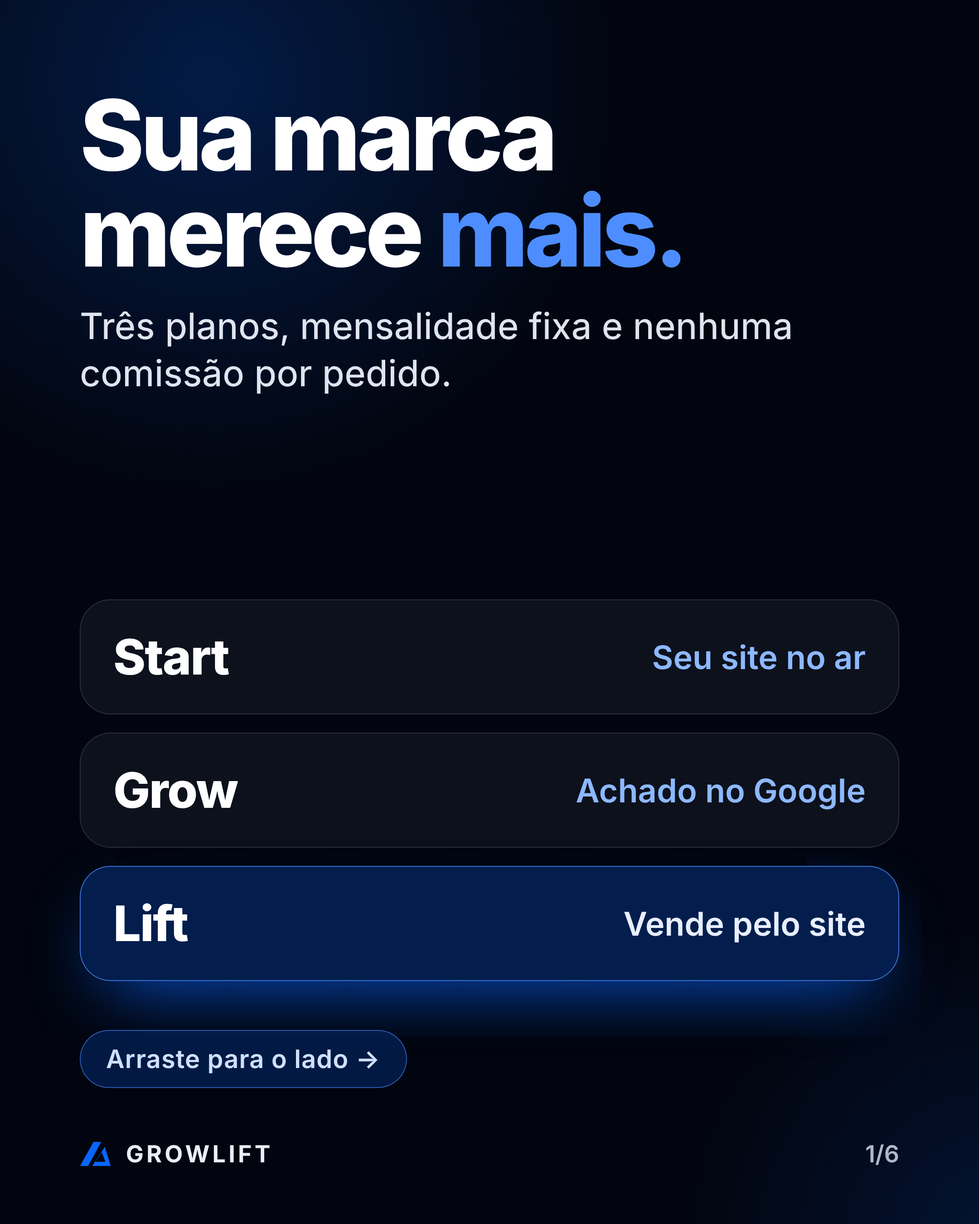
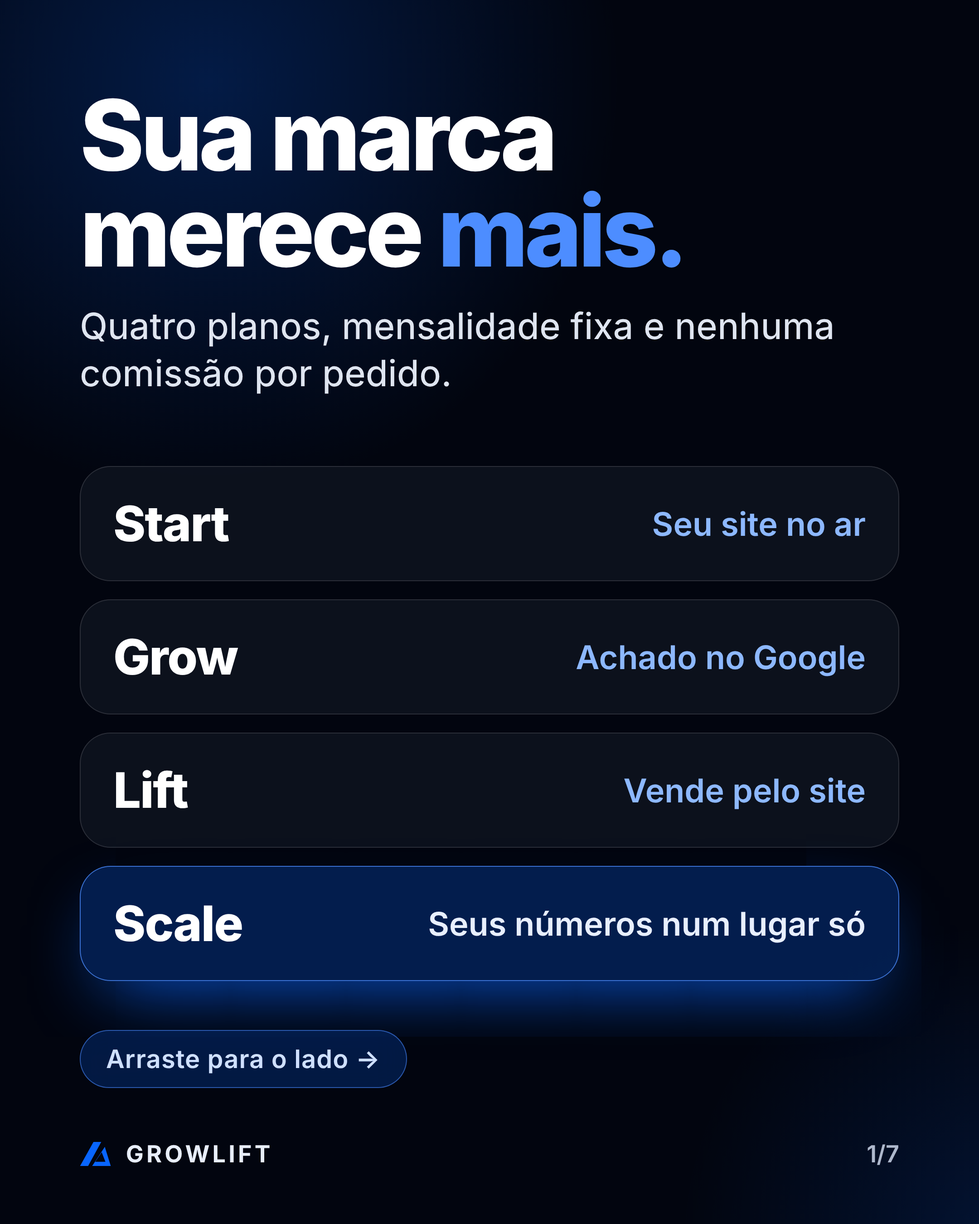
Instagram: Serviços com o plano Scale (7 imagens), guardado até o Scale estar pronto
Revisão legal: só postar com o Scale funcionando, no site, no contrato e na
política de privacidade. Textos do Scale já no formato aprovado.

Claude-Session: https://claude.ai/code/session_0144E8K5YaHTVDtLe8swm1ug

diff --git a/growlift-social/_fonte/html/04-posts-fixados/3-servicos/05.html b/growlift-social/_fonte/html/04-posts-fixados/3-servicos/05.html
@@ -42,22 +42,22 @@ body{background:#02050f}
     <div class="glow" style="width:1300px;height:1300px;left:-420px;top:-560px;opacity:.55"></div><div class="glow" style="width:1000px;height:1000px;right:-520px;bottom:-520px;opacity:.35"></div>
     <div style="position:absolute;inset:0;background:transparent"></div>
     <div style="position:absolute;left:88px;right:88px;top:96px;bottom:150px">
-    <span class="pill">Em todos os planos</span>
-    <h2 class="t-title" style="font-size:96px;margin-top:30px">Sem letra <span class="blue">miúda.</span></h2>
+    <span class="pill blue">Plano Scale</span>
+    <h2 class="t-title" style="font-size:96px;margin-top:30px">Veja os números da <span class="blue">sua loja.</span></h2>
     
     <ol style="position:absolute;left:0;right:0;bottom:0;list-style:none;display:grid;gap:20px">
       <li style="display:flex;gap:30px;align-items:center;padding:26px 30px;border-radius:34px;background:rgba(15,21,32,.8);border:1.5px solid rgba(255,255,255,.12)">
         <span style="flex:none;width:108px;height:108px;border-radius:30px;display:grid;place-items:center;background:rgba(8,101,254,.18);border:1.5px solid rgba(77,141,255,.45)"><svg width="58" height="58" viewBox="0 0 24 24" fill="none" stroke="#8db8ff" stroke-width="1.7" stroke-linecap="round" stroke-linejoin="round" aria-hidden="true"><path d="m5 12.5 4.5 4.5L19 7.5"/></svg></span>
-        <span><span style="display:block;font-size:44px;font-weight:800;color:#fff;letter-spacing:-.02em;line-height:1.1">Contrato claro</span><span style="display:block;font-size:33px;color:#c6cede;margin-top:8px;line-height:1.25">Fidelidade informada antes de assinar</span></span>
+        <span><span style="display:block;font-size:44px;font-weight:800;color:#fff;letter-spacing:-.02em;line-height:1.1">Tudo do Lift</span><span style="display:block;font-size:33px;color:#c6cede;margin-top:8px;line-height:1.25">Pedido e Pix no site</span></span>
       </li><li style="display:flex;gap:30px;align-items:center;padding:26px 30px;border-radius:34px;background:rgba(15,21,32,.8);border:1.5px solid rgba(255,255,255,.12)">
-        <span style="flex:none;width:108px;height:108px;border-radius:30px;display:grid;place-items:center;background:rgba(8,101,254,.18);border:1.5px solid rgba(77,141,255,.45)"><svg width="58" height="58" viewBox="0 0 24 24" fill="none" stroke="#8db8ff" stroke-width="1.7" stroke-linecap="round" stroke-linejoin="round" aria-hidden="true"><path d="m5 12.5 4.5 4.5L19 7.5"/></svg></span>
-        <span><span style="display:block;font-size:44px;font-weight:800;color:#fff;letter-spacing:-.02em;line-height:1.1">Domínio no seu nome</span><span style="display:block;font-size:33px;color:#c6cede;margin-top:8px;line-height:1.25">O endereço é do seu negócio</span></span>
+        <span style="flex:none;width:108px;height:108px;border-radius:30px;display:grid;place-items:center;background:rgba(8,101,254,.18);border:1.5px solid rgba(77,141,255,.45)"><svg width="58" height="58" viewBox="0 0 24 24" fill="none" stroke="#8db8ff" stroke-width="1.7" stroke-linecap="round" stroke-linejoin="round" aria-hidden="true"><path d="M3 20.5h18"/><path d="M6 16.5v-4M10.5 16.5v-8M15 16.5v-6M19.5 16.5V4.5"/></svg></span>
+        <span><span style="display:block;font-size:44px;font-weight:800;color:#fff;letter-spacing:-.02em;line-height:1.1">Fechamento do dia</span><span style="display:block;font-size:33px;color:#c6cede;margin-top:8px;line-height:1.25">Balcão, delivery e telefone, com os relatórios que você envia</span></span>
       </li><li style="display:flex;gap:30px;align-items:center;padding:26px 30px;border-radius:34px;background:rgba(15,21,32,.8);border:1.5px solid rgba(255,255,255,.12)">
-        <span style="flex:none;width:108px;height:108px;border-radius:30px;display:grid;place-items:center;background:rgba(8,101,254,.18);border:1.5px solid rgba(77,141,255,.45)"><svg width="58" height="58" viewBox="0 0 24 24" fill="none" stroke="#8db8ff" stroke-width="1.7" stroke-linecap="round" stroke-linejoin="round" aria-hidden="true"><path d="m5 12.5 4.5 4.5L19 7.5"/></svg></span>
-        <span><span style="display:block;font-size:44px;font-weight:800;color:#fff;letter-spacing:-.02em;line-height:1.1">7 dias para desistir</span><span style="display:block;font-size:33px;color:#c6cede;margin-top:8px;line-height:1.25">Sem multa</span></span>
+        <span style="flex:none;width:108px;height:108px;border-radius:30px;display:grid;place-items:center;background:rgba(8,101,254,.18);border:1.5px solid rgba(77,141,255,.45)"><svg width="58" height="58" viewBox="0 0 24 24" fill="none" stroke="#8db8ff" stroke-width="1.7" stroke-linecap="round" stroke-linejoin="round" aria-hidden="true"><path d="M20.5 11.5a8.5 8.5 0 0 1-12.6 7.4L3 20.5l1.5-4.7A8.5 8.5 0 1 1 20.5 11.5z"/><path d="M8.5 11.5h.01M12 11.5h.01M15.5 11.5h.01" stroke-width="2.6"/></svg></span>
+        <span><span style="display:block;font-size:44px;font-weight:800;color:#fff;letter-spacing:-.02em;line-height:1.1">Pergunte ao painel</span><span style="display:block;font-size:33px;color:#c6cede;margin-top:8px;line-height:1.25">Respostas por IA com os números da sua loja</span></span>
       </li><li style="display:flex;gap:30px;align-items:center;padding:26px 30px;border-radius:34px;background:rgba(15,21,32,.8);border:1.5px solid rgba(255,255,255,.12)">
-        <span style="flex:none;width:108px;height:108px;border-radius:30px;display:grid;place-items:center;background:rgba(8,101,254,.18);border:1.5px solid rgba(77,141,255,.45)"><svg width="58" height="58" viewBox="0 0 24 24" fill="none" stroke="#8db8ff" stroke-width="1.7" stroke-linecap="round" stroke-linejoin="round" aria-hidden="true"><path d="m5 12.5 4.5 4.5L19 7.5"/></svg></span>
-        <span><span style="display:block;font-size:44px;font-weight:800;color:#fff;letter-spacing:-.02em;line-height:1.1">Sem comissão</span><span style="display:block;font-size:33px;color:#c6cede;margin-top:8px;line-height:1.25">Nada sobre os seus pedidos</span></span>
+        <span style="flex:none;width:108px;height:108px;border-radius:30px;display:grid;place-items:center;background:rgba(8,101,254,.18);border:1.5px solid rgba(77,141,255,.45)"><svg width="58" height="58" viewBox="0 0 24 24" fill="none" stroke="#8db8ff" stroke-width="1.7" stroke-linecap="round" stroke-linejoin="round" aria-hidden="true"><rect x="3" y="5" width="18" height="16" rx="2"/><path d="M8 3v4M16 3v4M3 10h18"/><path d="m9 15 2 2 4-4"/></svg></span>
+        <span><span style="display:block;font-size:44px;font-weight:800;color:#fff;letter-spacing:-.02em;line-height:1.1">Revisão mensal</span><span style="display:block;font-size:33px;color:#c6cede;margin-top:8px;line-height:1.25">Uma conversa por mês com a gente</span></span>
       </li>
     </ol></div>
-    <div style="position:absolute;left:88px;right:88px;bottom:62px;display:flex;justify-content:space-between;align-items:center;font-size:26px;color:#aeb8cc"><div class="brand" style="font-size:26px;color:#e8eefa"><svg viewBox="50 40 530 415" xmlns="http://www.w3.org/2000/svg"><path fill="#0865FE" d="M280 48H410L190 450H55Z"/><path fill="#0865FE" fill-rule="evenodd" d="M470 130L570 450H258Z M418 220L480 380H309Z"/></svg>GROWLIFT</div><span style="font-weight:600">5/6</span></div></body></html>
+    <div style="position:absolute;left:88px;right:88px;bottom:62px;display:flex;justify-content:space-between;align-items:center;font-size:26px;color:#aeb8cc"><div class="brand" style="font-size:26px;color:#e8eefa"><svg viewBox="50 40 530 415" xmlns="http://www.w3.org/2000/svg"><path fill="#0865FE" d="M280 48H410L190 450H55Z"/><path fill="#0865FE" fill-rule="evenodd" d="M470 130L570 450H258Z M418 220L480 380H309Z"/></svg>GROWLIFT</div><span style="font-weight:600">5/7</span></div></body></html>

diff --git a/growlift-social/_fonte/html/04-posts-fixados/3-servicos/07.html b/growlift-social/_fonte/html/04-posts-fixados/3-servicos/07.html
@@ -1,0 +1,51 @@
+<!doctype html><html lang="pt-BR"><head><base href="file:///home/user/Hamburgueria/growlift-social/_fonte/assets/"><meta charset="utf-8"><style>@font-face{font-family:Inter;font-weight:100 900;src:url(file:///home/user/Hamburgueria/growlift/fonts/inter-latin-wght-normal.woff2) format('woff2');unicode-range:U+0000-00FF,U+0131,U+0152-0153,U+02BB-02BC,U+02C6,U+02DA,U+02DC,U+2000-206F,U+20AC,U+2122,U+2191,U+2193,U+2212,U+2215,U+FEFF,U+FFFD}@font-face{font-family:Inter;font-weight:100 900;src:url(file:///home/user/Hamburgueria/growlift/fonts/inter-latin-ext-wght-normal.woff2) format('woff2');unicode-range:U+0100-02BA,U+02BD-02C5,U+02C7-02CC,U+02CE-02D7,U+02DD-02FF,U+1E00-1E9F,U+20A0-20AB,U+20AD-20C0,U+2C60-2C7F,U+A720-A7FF}</style><style>:root{--w:1080px;--h:1350px}
+*{box-sizing:border-box;margin:0;padding:0}
+html,body{width:var(--w);height:var(--h);overflow:hidden}
+body{position:relative;font-family:Inter,system-ui,sans-serif;color:#f3f5f9;background:#06080d;-webkit-font-smoothing:antialiased}
+.glow{position:absolute;border-radius:50%;pointer-events:none;background:radial-gradient(closest-side,rgba(8,101,254,.42),rgba(8,101,254,0) 70%)}
+.grid{position:absolute;inset:0;background-image:linear-gradient(rgba(255,255,255,.035) 1px,transparent 1px),linear-gradient(90deg,rgba(255,255,255,.035) 1px,transparent 1px);background-size:72px 72px;-webkit-mask-image:radial-gradient(ellipse at 50% 45%,#000 25%,transparent 72%)}
+.eyebrow{font-size:28px;font-weight:600;letter-spacing:.16em;text-transform:uppercase;color:#6ea6ff}
+.h1{font-weight:800;letter-spacing:-.035em;line-height:.98}
+.blue{color:#4d8dff}
+.lead{color:#c6cede;line-height:1.4}
+.muted{color:#a9b3c7}
+.chip{display:inline-flex;align-items:center;gap:12px;border:1px solid rgba(141,184,255,.35);color:#8db8ff;border-radius:999px;font-weight:600;letter-spacing:.08em;text-transform:uppercase}
+.btn{display:inline-flex;align-items:center;justify-content:center;background:#0865fe;color:#fff;border-radius:999px;font-weight:700;box-shadow:0 24px 50px -20px rgba(8,101,254,.9)}
+.card{background:#0f1520;border:1px solid rgba(255,255,255,0.10);border-radius:32px}
+.brand{display:flex;align-items:center;gap:16px;font-weight:700;letter-spacing:.12em}
+.brand svg{height:1.05em;width:auto}
+.browser{border-radius:26px;overflow:hidden;background:#0f1520;border:1px solid rgba(255,255,255,0.10);box-shadow:0 -30px 90px -30px rgba(8,101,254,.55),0 40px 80px -40px rgba(0,0,0,.9)}
+.browser .bar{display:flex;align-items:center;gap:10px;height:54px;padding:0 22px;border-bottom:1px solid rgba(255,255,255,.08)}
+.browser .bar i{width:14px;height:14px;border-radius:50%;background:#2a3344}
+.browser .bar span{margin-left:14px;font-size:20px;color:#7d879c;background:#161d2a;padding:6px 18px;border-radius:999px}
+.browser img{display:block;width:100%;aspect-ratio:16/10;object-fit:cover;object-position:top}
+.phone{border-radius:64px;padding:16px;background:#1a2130;box-shadow:0 50px 90px -40px rgba(0,0,0,.95),0 0 0 2px rgba(255,255,255,.06)}
+.phone img{display:block;width:100%;border-radius:50px}
+.tag-conceito{display:inline-block;font-size:22px;font-weight:600;letter-spacing:.06em;color:#8790a6;border:1px dashed rgba(255,255,255,.22);border-radius:999px;padding:8px 18px}
+body{background:#02050f}
+.t-title{font-weight:800;letter-spacing:-.04em;line-height:.98;color:#fff}
+.t-lead{font-size:46px;line-height:1.32;color:#dfe5f0;font-weight:450}
+.pill{display:inline-flex;align-items:center;gap:14px;height:64px;padding:0 28px;border-radius:999px;font-size:28px;font-weight:600;letter-spacing:.02em;color:#e8eefa;background:rgba(255,255,255,.08);border:1.5px solid rgba(255,255,255,.18);backdrop-filter:blur(18px)}
+.pill.blue{color:#cfe0ff;background:rgba(8,101,254,.22);border-color:rgba(77,141,255,.55)}
+.foot{position:absolute;left:84px;right:84px;top:1628px;display:flex;justify-content:space-between;align-items:center;font-size:28px;color:#aeb8cc}
+.foot .brand{color:#e8eefa;font-size:28px}
+.win{border-radius:30px;overflow:hidden;background:#0f1520;border:1.5px solid rgba(255,255,255,.14);box-shadow:0 60px 120px -40px rgba(0,0,0,.95),0 0 0 1px rgba(0,0,0,.4)}
+.win .bar{display:flex;align-items:center;gap:12px;height:66px;padding:0 26px;background:#121a27;border-bottom:1px solid rgba(255,255,255,.08)}
+.win .bar i{width:16px;height:16px;border-radius:50%;background:#2c3648}
+.win .bar span{margin-left:16px;font-size:24px;color:#9aa6bd;background:#1a2333;padding:8px 22px;border-radius:999px}
+.win img{display:block;width:100%}
+.feat{display:flex;align-items:center;gap:24px;font-size:44px;font-weight:600;color:#f3f6fb;line-height:1.2}
+.feat b{flex:none;width:58px;height:58px;border-radius:50%;display:grid;place-items:center;background:#0865fe;box-shadow:0 10px 30px -8px rgba(8,101,254,.9)}
+</style></head><body>
+    <img src="hd/marca-vidro-vertical.png" style="position:absolute;left:0;top:-770px;width:1080px;height:1910px;object-fit:cover">
+    
+    
+    <div style="position:absolute;inset:0;background:linear-gradient(180deg,rgba(2,5,15,.15) 0%,rgba(2,5,15,0) 35%,rgba(2,5,15,.82) 58%,#02050f 80%)"></div>
+    <div style="position:absolute;left:88px;right:88px;top:96px;bottom:150px">
+    <div style="position:absolute;left:0;right:0;bottom:0">
+      <h2 class="t-title" style="font-size:104px">Qual é o seu <span class="blue">momento?</span></h2>
+      <p class="t-lead" style="font-size:40px;margin-top:24px">Conte como está o seu negócio. A gente indica o plano que faz sentido.</p>
+      <div style="margin-top:40px;height:112px;border-radius:999px;display:flex;align-items:center;justify-content:center;font-size:40px;font-weight:700;color:#fff;background:#0865fe;box-shadow:0 0 0 8px rgba(8,101,254,.18),0 30px 70px -20px rgba(8,101,254,.95)">Diagnóstico grátis</div>
+      <p style="margin-top:22px;font-size:32px;font-weight:600;color:#cfe0ff;text-align:center">growlift.com.br · link na bio</p>
+    </div></div>
+    <div style="position:absolute;left:88px;right:88px;bottom:62px;display:flex;justify-content:space-between;align-items:center;font-size:26px;color:#aeb8cc"><div class="brand" style="font-size:26px;color:#e8eefa"><svg viewBox="50 40 530 415" xmlns="http://www.w3.org/2000/svg"><path fill="#0865FE" d="M280 48H410L190 450H55Z"/><path fill="#0865FE" fill-rule="evenodd" d="M470 130L570 450H258Z M418 220L480 380H309Z"/></svg>GROWLIFT</div><span style="font-weight:600">7/7</span></div></body></html>

diff --git a/growlift-social/_fonte/html/04-posts-fixados/3-servicos/06.html b/growlift-social/_fonte/html/04-posts-fixados/3-servicos/06.html
@@ -37,15 +37,27 @@ body{background:#02050f}
 .feat{display:flex;align-items:center;gap:24px;font-size:44px;font-weight:600;color:#f3f6fb;line-height:1.2}
 .feat b{flex:none;width:58px;height:58px;border-radius:50%;display:grid;place-items:center;background:#0865fe;box-shadow:0 10px 30px -8px rgba(8,101,254,.9)}
 </style></head><body>
-    <img src="hd/marca-vidro-vertical.png" style="position:absolute;left:0;top:-770px;width:1080px;height:1910px;object-fit:cover">
     
     
-    <div style="position:absolute;inset:0;background:linear-gradient(180deg,rgba(2,5,15,.15) 0%,rgba(2,5,15,0) 35%,rgba(2,5,15,.82) 58%,#02050f 80%)"></div>
+    <div class="glow" style="width:1300px;height:1300px;left:-420px;top:-560px;opacity:.55"></div><div class="glow" style="width:1000px;height:1000px;right:-520px;bottom:-520px;opacity:.35"></div>
+    <div style="position:absolute;inset:0;background:transparent"></div>
     <div style="position:absolute;left:88px;right:88px;top:96px;bottom:150px">
-    <div style="position:absolute;left:0;right:0;bottom:0">
-      <h2 class="t-title" style="font-size:104px">Qual é o seu <span class="blue">momento?</span></h2>
-      <p class="t-lead" style="font-size:40px;margin-top:24px">Conte como está o seu negócio. A gente indica o plano que faz sentido.</p>
-      <div style="margin-top:40px;height:112px;border-radius:999px;display:flex;align-items:center;justify-content:center;font-size:40px;font-weight:700;color:#fff;background:#0865fe;box-shadow:0 0 0 8px rgba(8,101,254,.18),0 30px 70px -20px rgba(8,101,254,.95)">Diagnóstico grátis</div>
-      <p style="margin-top:22px;font-size:32px;font-weight:600;color:#cfe0ff;text-align:center">growlift.com.br · link na bio</p>
-    </div></div>
-    <div style="position:absolute;left:88px;right:88px;bottom:62px;display:flex;justify-content:space-between;align-items:center;font-size:26px;color:#aeb8cc"><div class="brand" style="font-size:26px;color:#e8eefa"><svg viewBox="50 40 530 415" xmlns="http://www.w3.org/2000/svg"><path fill="#0865FE" d="M280 48H410L190 450H55Z"/><path fill="#0865FE" fill-rule="evenodd" d="M470 130L570 450H258Z M418 220L480 380H309Z"/></svg>GROWLIFT</div><span style="font-weight:600">6/6</span></div></body></html>
+    <span class="pill">Em todos os planos</span>
+    <h2 class="t-title" style="font-size:96px;margin-top:30px">Sem letra <span class="blue">miúda.</span></h2>
+    
+    <ol style="position:absolute;left:0;right:0;bottom:0;list-style:none;display:grid;gap:20px">
+      <li style="display:flex;gap:30px;align-items:center;padding:26px 30px;border-radius:34px;background:rgba(15,21,32,.8);border:1.5px solid rgba(255,255,255,.12)">
+        <span style="flex:none;width:108px;height:108px;border-radius:30px;display:grid;place-items:center;background:rgba(8,101,254,.18);border:1.5px solid rgba(77,141,255,.45)"><svg width="58" height="58" viewBox="0 0 24 24" fill="none" stroke="#8db8ff" stroke-width="1.7" stroke-linecap="round" stroke-linejoin="round" aria-hidden="true"><path d="m5 12.5 4.5 4.5L19 7.5"/></svg></span>
+        <span><span style="display:block;font-size:44px;font-weight:800;color:#fff;letter-spacing:-.02em;line-height:1.1">Contrato claro</span><span style="display:block;font-size:33px;color:#c6cede;margin-top:8px;line-height:1.25">Fidelidade informada antes de assinar</span></span>
+      </li><li style="display:flex;gap:30px;align-items:center;padding:26px 30px;border-radius:34px;background:rgba(15,21,32,.8);border:1.5px solid rgba(255,255,255,.12)">
+        <span style="flex:none;width:108px;height:108px;border-radius:30px;display:grid;place-items:center;background:rgba(8,101,254,.18);border:1.5px solid rgba(77,141,255,.45)"><svg width="58" height="58" viewBox="0 0 24 24" fill="none" stroke="#8db8ff" stroke-width="1.7" stroke-linecap="round" stroke-linejoin="round" aria-hidden="true"><path d="m5 12.5 4.5 4.5L19 7.5"/></svg></span>
+        <span><span style="display:block;font-size:44px;font-weight:800;color:#fff;letter-spacing:-.02em;line-height:1.1">Domínio no seu nome</span><span style="display:block;font-size:33px;color:#c6cede;margin-top:8px;line-height:1.25">O endereço é do seu negócio</span></span>
+      </li><li style="display:flex;gap:30px;align-items:center;padding:26px 30px;border-radius:34px;background:rgba(15,21,32,.8);border:1.5px solid rgba(255,255,255,.12)">
+        <span style="flex:none;width:108px;height:108px;border-radius:30px;display:grid;place-items:center;background:rgba(8,101,254,.18);border:1.5px solid rgba(77,141,255,.45)"><svg width="58" height="58" viewBox="0 0 24 24" fill="none" stroke="#8db8ff" stroke-width="1.7" stroke-linecap="round" stroke-linejoin="round" aria-hidden="true"><path d="m5 12.5 4.5 4.5L19 7.5"/></svg></span>
+        <span><span style="display:block;font-size:44px;font-weight:800;color:#fff;letter-spacing:-.02em;line-height:1.1">7 dias para desistir</span><span style="display:block;font-size:33px;color:#c6cede;margin-top:8px;line-height:1.25">Sem multa</span></span>
+      </li><li style="display:flex;gap:30px;align-items:center;padding:26px 30px;border-radius:34px;background:rgba(15,21,32,.8);border:1.5px solid rgba(255,255,255,.12)">
+        <span style="flex:none;width:108px;height:108px;border-radius:30px;display:grid;place-items:center;background:rgba(8,101,254,.18);border:1.5px solid rgba(77,141,255,.45)"><svg width="58" height="58" viewBox="0 0 24 24" fill="none" stroke="#8db8ff" stroke-width="1.7" stroke-linecap="round" stroke-linejoin="round" aria-hidden="true"><path d="m5 12.5 4.5 4.5L19 7.5"/></svg></span>
+        <span><span style="display:block;font-size:44px;font-weight:800;color:#fff;letter-spacing:-.02em;line-height:1.1">Sem comissão</span><span style="display:block;font-size:33px;color:#c6cede;margin-top:8px;line-height:1.25">Nada sobre os seus pedidos</span></span>
+      </li>
+    </ol></div>
+    <div style="position:absolute;left:88px;right:88px;bottom:62px;display:flex;justify-content:space-between;align-items:center;font-size:26px;color:#aeb8cc"><div class="brand" style="font-size:26px;color:#e8eefa"><svg viewBox="50 40 530 415" xmlns="http://www.w3.org/2000/svg"><path fill="#0865FE" d="M280 48H410L190 450H55Z"/><path fill="#0865FE" fill-rule="evenodd" d="M470 130L570 450H258Z M418 220L480 380H309Z"/></svg>GROWLIFT</div><span style="font-weight:600">6/7</span></div></body></html>

diff --git a/growlift-social/_fonte/html/04-posts-fixados/3-servicos/01.html b/growlift-social/_fonte/html/04-posts-fixados/3-servicos/01.html
@@ -43,7 +43,7 @@ body{background:#02050f}
     <div style="position:absolute;inset:0;background:transparent"></div>
     <div style="position:absolute;left:88px;right:88px;top:96px;bottom:150px">
     <h1 class="t-title" style="font-size:108px">Sua marca merece <span class="blue">mais.</span></h1>
-    <p class="t-lead" style="font-size:40px;margin-top:26px">Três planos, mensalidade fixa e nenhuma comissão por pedido.</p>
+    <p class="t-lead" style="font-size:40px;margin-top:26px">Quatro planos, mensalidade fixa e nenhuma comissão por pedido.</p>
     <ol style="position:absolute;left:0;right:0;bottom:118px;list-style:none;display:grid;gap:20px">
       <li style="display:flex;align-items:center;justify-content:space-between;gap:24px;padding:30px 36px;border-radius:34px;background:rgba(15,21,32,.78);border:1.5px solid rgba(255,255,255,.13);box-shadow:none">
         <span style="font-size:54px;font-weight:800;letter-spacing:-.02em;color:#fff">Start</span>
@@ -51,10 +51,13 @@ body{background:#02050f}
       </li><li style="display:flex;align-items:center;justify-content:space-between;gap:24px;padding:30px 36px;border-radius:34px;background:rgba(15,21,32,.78);border:1.5px solid rgba(255,255,255,.13);box-shadow:none">
         <span style="font-size:54px;font-weight:800;letter-spacing:-.02em;color:#fff">Grow</span>
         <span style="font-size:36px;font-weight:600;color:#8db8ff">Achado no Google</span>
-      </li><li style="display:flex;align-items:center;justify-content:space-between;gap:24px;padding:30px 36px;border-radius:34px;background:rgba(8,101,254,.26);border:1.5px solid rgba(77,141,255,.75);box-shadow:0 30px 80px -30px rgba(8,101,254,.95)">
+      </li><li style="display:flex;align-items:center;justify-content:space-between;gap:24px;padding:30px 36px;border-radius:34px;background:rgba(15,21,32,.78);border:1.5px solid rgba(255,255,255,.13);box-shadow:none">
         <span style="font-size:54px;font-weight:800;letter-spacing:-.02em;color:#fff">Lift</span>
-        <span style="font-size:36px;font-weight:600;color:#e8efff">Vende pelo site</span>
+        <span style="font-size:36px;font-weight:600;color:#8db8ff">Vende pelo site</span>
+      </li><li style="display:flex;align-items:center;justify-content:space-between;gap:24px;padding:30px 36px;border-radius:34px;background:rgba(8,101,254,.26);border:1.5px solid rgba(77,141,255,.75);box-shadow:0 30px 80px -30px rgba(8,101,254,.95)">
+        <span style="font-size:54px;font-weight:800;letter-spacing:-.02em;color:#fff">Scale</span>
+        <span style="font-size:36px;font-weight:600;color:#e8efff">Seus números num lugar só</span>
       </li>
     </ol>
     <span class="pill blue" style="position:absolute;left:0;bottom:0">Arraste para o lado →</span></div>
-    <div style="position:absolute;left:88px;right:88px;bottom:62px;display:flex;justify-content:space-between;align-items:center;font-size:26px;color:#aeb8cc"><div class="brand" style="font-size:26px;color:#e8eefa"><svg viewBox="50 40 530 415" xmlns="http://www.w3.org/2000/svg"><path fill="#0865FE" d="M280 48H410L190 450H55Z"/><path fill="#0865FE" fill-rule="evenodd" d="M470 130L570 450H258Z M418 220L480 380H309Z"/></svg>GROWLIFT</div><span style="font-weight:600">1/6</span></div></body></html>
+    <div style="position:absolute;left:88px;right:88px;bottom:62px;display:flex;justify-content:space-between;align-items:center;font-size:26px;color:#aeb8cc"><div class="brand" style="font-size:26px;color:#e8eefa"><svg viewBox="50 40 530 415" xmlns="http://www.w3.org/2000/svg"><path fill="#0865FE" d="M280 48H410L190 450H55Z"/><path fill="#0865FE" fill-rule="evenodd" d="M470 130L570 450H258Z M418 220L480 380H309Z"/></svg>GROWLIFT</div><span style="font-weight:600">1/7</span></div></body></html>

diff --git a/growlift-social/_fonte/html/04-posts-fixados/3-servicos/04.html b/growlift-social/_fonte/html/04-posts-fixados/3-servicos/04.html
@@ -42,7 +42,7 @@ body{background:#02050f}
     <div class="glow" style="width:1300px;height:1300px;left:-420px;top:-560px;opacity:.55"></div><div class="glow" style="width:1000px;height:1000px;right:-520px;bottom:-520px;opacity:.35"></div>
     <div style="position:absolute;inset:0;background:transparent"></div>
     <div style="position:absolute;left:88px;right:88px;top:96px;bottom:150px">
-    <span class="pill blue">Plano Lift</span>
+    <span class="pill">Plano Lift</span>
     <h2 class="t-title" style="font-size:96px;margin-top:30px">Vende pelo <span class="blue">site.</span></h2>
     
     <ol style="position:absolute;left:0;right:0;bottom:0;list-style:none;display:grid;gap:20px">
@@ -60,4 +60,4 @@ body{background:#02050f}
         <span><span style="display:block;font-size:44px;font-weight:800;color:#fff;letter-spacing:-.02em;line-height:1.1">Campanha mensal</span><span style="display:block;font-size:33px;color:#c6cede;margin-top:8px;line-height:1.25">No WhatsApp, só para quem aceitou</span></span>
       </li>
     </ol></div>
-    <div style="position:absolute;left:88px;right:88px;bottom:62px;display:flex;justify-content:space-between;align-items:center;font-size:26px;color:#aeb8cc"><div class="brand" style="font-size:26px;color:#e8eefa"><svg viewBox="50 40 530 415" xmlns="http://www.w3.org/2000/svg"><path fill="#0865FE" d="M280 48H410L190 450H55Z"/><path fill="#0865FE" fill-rule="evenodd" d="M470 130L570 450H258Z M418 220L480 380H309Z"/></svg>GROWLIFT</div><span style="font-weight:600">4/6</span></div></body></html>
+    <div style="position:absolute;left:88px;right:88px;bottom:62px;display:flex;justify-content:space-between;align-items:center;font-size:26px;color:#aeb8cc"><div class="brand" style="font-size:26px;color:#e8eefa"><svg viewBox="50 40 530 415" xmlns="http://www.w3.org/2000/svg"><path fill="#0865FE" d="M280 48H410L190 450H55Z"/><path fill="#0865FE" fill-rule="evenodd" d="M470 130L570 450H258Z M418 220L480 380H309Z"/></svg>GROWLIFT</div><span style="font-weight:600">4/7</span></div></body></html>

diff --git a/growlift-social/_fonte/html/04-posts-fixados/3-servicos/02.html b/growlift-social/_fonte/html/04-posts-fixados/3-servicos/02.html
@@ -60,4 +60,4 @@ body{background:#02050f}
         <span><span style="display:block;font-size:44px;font-weight:800;color:#fff;letter-spacing:-.02em;line-height:1.1">1 alteração por mês</span><span style="display:block;font-size:33px;color:#c6cede;margin-top:8px;line-height:1.25">Pronta em até 2 dias úteis</span></span>
       </li>
     </ol></div>
-    <div style="position:absolute;left:88px;right:88px;bottom:62px;display:flex;justify-content:space-between;align-items:center;font-size:26px;color:#aeb8cc"><div class="brand" style="font-size:26px;color:#e8eefa"><svg viewBox="50 40 530 415" xmlns="http://www.w3.org/2000/svg"><path fill="#0865FE" d="M280 48H410L190 450H55Z"/><path fill="#0865FE" fill-rule="evenodd" d="M470 130L570 450H258Z M418 220L480 380H309Z"/></svg>GROWLIFT</div><span style="font-weight:600">2/6</span></div></body></html>
+    <div style="position:absolute;left:88px;right:88px;bottom:62px;display:flex;justify-content:space-between;align-items:center;font-size:26px;color:#aeb8cc"><div class="brand" style="font-size:26px;color:#e8eefa"><svg viewBox="50 40 530 415" xmlns="http://www.w3.org/2000/svg"><path fill="#0865FE" d="M280 48H410L190 450H55Z"/><path fill="#0865FE" fill-rule="evenodd" d="M470 130L570 450H258Z M418 220L480 380H309Z"/></svg>GROWLIFT</div><span style="font-weight:600">2/7</span></div></body></html>

diff --git a/growlift-social/_fonte/html/04-posts-fixados/3-servicos/03.html b/growlift-social/_fonte/html/04-posts-fixados/3-servicos/03.html
@@ -60,4 +60,4 @@ body{background:#02050f}
         <span><span style="display:block;font-size:44px;font-weight:800;color:#fff;letter-spacing:-.02em;line-height:1.1">Lista de clientes</span><span style="display:block;font-size:33px;color:#c6cede;margin-top:8px;line-height:1.25">De quem quer receber ofertas</span></span>
       </li>
     </ol></div>
-    <div style="position:absolute;left:88px;right:88px;bottom:62px;display:flex;justify-content:space-between;align-items:center;font-size:26px;color:#aeb8cc"><div class="brand" style="font-size:26px;color:#e8eefa"><svg viewBox="50 40 530 415" xmlns="http://www.w3.org/2000/svg"><path fill="#0865FE" d="M280 48H410L190 450H55Z"/><path fill="#0865FE" fill-rule="evenodd" d="M470 130L570 450H258Z M418 220L480 380H309Z"/></svg>GROWLIFT</div><span style="font-weight:600">3/6</span></div></body></html>
+    <div style="position:absolute;left:88px;right:88px;bottom:62px;display:flex;justify-content:space-between;align-items:center;font-size:26px;color:#aeb8cc"><div class="brand" style="font-size:26px;color:#e8eefa"><svg viewBox="50 40 530 415" xmlns="http://www.w3.org/2000/svg"><path fill="#0865FE" d="M280 48H410L190 450H55Z"/><path fill="#0865FE" fill-rule="evenodd" d="M470 130L570 450H258Z M418 220L480 380H309Z"/></svg>GROWLIFT</div><span style="font-weight:600">3/7</span></div></body></html>

diff --git a/growlift-social/04-posts-fixados/legendas.md b/growlift-social/04-posts-fixados/legendas.md
@@ -52,28 +52,36 @@ Quer ver uma prévia do seu? O diagnóstico é grátis, pelo link na bio.
 
 **Texto alternativo da 1ª imagem**: Capa com a tela de um site conceito de hamburgueria e o texto "Ideias que viram experiências digitais".
 
-## 3 · Serviços (6 imagens)
+## 3 · Serviços (7 imagens)
+
+**Não postar ainda.** A revisão legal de 29/10/2026 só libera o post quando o Scale estiver:
+1. **funcionando**, testado com um restaurante-piloto: fechamento do dia, importação dos relatórios e a IA respondendo com os números da loja;
+2. **no site** (seção Planos), com preço final, o que inclui, fidelidade, desistência em 7 dias e o aviso de que a IA pode errar;
+3. **no contrato** e na **política de privacidade** (dados importados e o provedor de IA).
+
+Depois disso, rodar de novo o `revisor-legal` no texto final. Até lá, os planos ficam no site e no destaque Serviços. Se quiserem postar antes, a saída é a versão só com Start, Grow e Lift.
 
 **Legenda**
 
 ```
 Sua marca merece mais. 🚀
 
-São três planos, com mensalidade fixa e nenhuma comissão por pedido:
+São quatro planos, com mensalidade fixa e nenhuma comissão por pedido:
 • Start: seu site no ar, com domínio e hospedagem por nossa conta.
 • Grow: tudo do Start e o seu negócio preparado para ser achado no Google.
 • Lift: tudo do Grow e pedido com Pix direto no seu site.
+• Scale: tudo do Lift, fechamento do dia com balcão, delivery e telefone, perguntas respondidas por IA com os números da sua loja e uma revisão por mês com a gente.
 
-Valores, fidelidade e condições estão no site e no contrato, apresentados antes de você assinar.
+Valores, fidelidade e condições estão no site e no contrato, apresentados antes de você assinar. SEO e Perfil no Google ajudam quem procura a achar você, mas ninguém garante posição no Google.
 
 Conte como está o seu negócio e a gente indica o plano que faz sentido. Link na bio.
 
 #growlift #criacaodesites #marketingdigital #googlemeunegocio #cardapiodigital #pequenosnegocios
 ```
 
-**Texto alternativo da 1ª imagem**: Capa com o texto "Sua marca merece mais" e os três planos da Growlift: Start, Grow e Lift.
+**Texto alternativo da 1ª imagem**: Capa com o texto "Sua marca merece mais" e os quatro planos da Growlift: Start, Grow, Lift e Scale.
 
-Refeito em 29/10/2026 no mesmo estilo de Quem somos e Portfólio (cartões grandes, logo de vidro no fim). Cada linha confere com os planos do site.
+Refeito em 29/10/2026 no mesmo estilo de Quem somos e Portfólio (cartões grandes, logo de vidro no fim). Start, Grow e Lift conferem com os planos do site; o Scale segue o modelo da Intelligence aprovado em 29/10/2026 e precisa entrar no site antes do post.
 
 ## O que foi evitado de propósito
 
